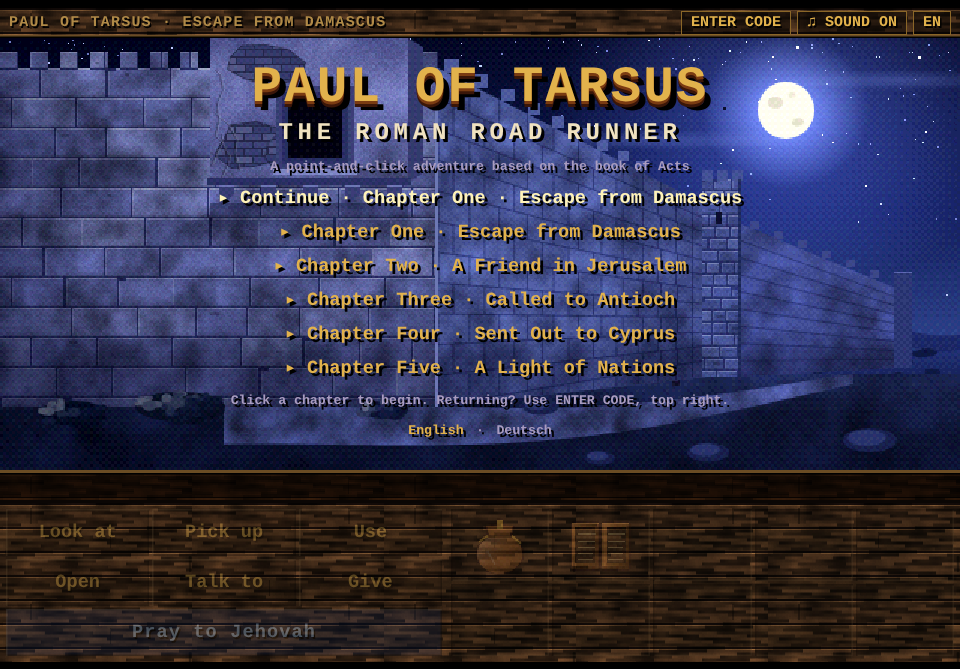
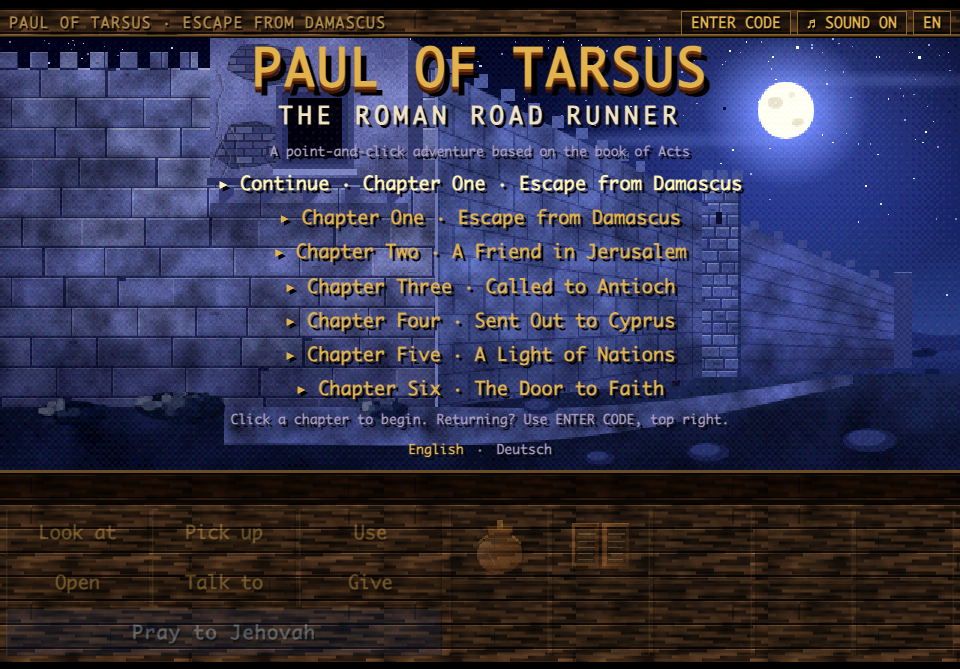
Docs: Chapter Six in the README, with its screenshots
The chapter's story, walkthrough and content notes, the closing map and the
score, and what a hub chapter needs for a place that stands for several
rooms. New screenshots for Iconium, Lystra, the gate, the dusk scene, the
house of Lois, Derbe and both maps; the title and Continue screens now list
six chapters.

diff --git a/README.md b/README.md
@@ -2,7 +2,7 @@
 
 A browser point-and-click adventure in the style of early-1990s verb-and-inventory adventure games. You play Saul of Tarsus, later known as the apostle Paul, a tentmaker who gets out of tight spots with his trade, his brothers and prayer rather than with force.
 
-There are five chapters so far, in English and German. The game is a small engine in `index.html` plus one level file per chapter in `levels/`, loaded only when that chapter is played. There are no image or audio files: every backdrop, character and icon is painted in code on a canvas, and all music, ambience and sound effects are synthesized with the Web Audio API.
+There are six chapters so far, in English and German. The game is a small engine in `index.html` plus one level file per chapter in `levels/`, loaded only when that chapter is played. There are no image or audio files: every backdrop, character and icon is painted in code on a canvas, and all music, ambience and sound effects are synthesized with the Web Audio API.
 
 ![Title screen](docs/screenshots/title.png)
 
@@ -173,6 +173,44 @@ In Antioch nothing is forced. A visitor takes a seat and waits to be asked, and 
 Optional: give the bread to John Mark before leaving Perga.
 </details>
 
+## Chapter Six: The Door to Faith
+
+About 47 to 48 C.E. In Iconium the two men speak in the synagogue "in such a manner that a great multitude of both Jews and Greeks became believers", and they spend considerable time there, "speaking with boldness by the authority of Jehovah". But the city is divided, and when an attempt is made to stone them, they are informed of it and flee to the cities of Lycaonia. In Lystra Paul heals a man who has been lame from birth, and the crowds cry out in the Lycaonian language: "The gods have become like humans and have come down to us!" They call Barnabas Zeus and Paul Hermes, and the priest of Zeus brings bulls and garlands to the gates. The two rip their garments and leap out into the crowd: "We too are humans having the same infirmities as you have." They barely restrain the crowds from sacrificing to them. Then Jews arrive from Antioch and Iconium and persuade the crowds; Paul is stoned and dragged outside the city, and left for dead. "However, when the disciples surrounded him, he got up and entered the city." The next day he leaves with Barnabas for Derbe. From there they return to Lystra, Iconium and Antioch, strengthening the disciples: "We must enter into the Kingdom of God through many tribulations." They appoint elders in each congregation, go down by Perga to Attalia, and sail home to Antioch, where they relate that God "had opened to the nations the door to faith" (Acts 14:1-28).
+
+| | |
+|---|---|
+| ![The saddlers' street in Iconium](docs/screenshots/iconium.png) | ![The well of Lystra](docs/screenshots/lystra.png) |
+| Iconium: a promise is kept before the road is taken | Lystra: a town with no synagogue, and a man who has never walked |
+| ![Bulls and garlands at the gate of Lystra](docs/screenshots/garlands.png) | ![Outside Lystra at dusk](docs/screenshots/dusk.png) |
+| The gate: bulls and garlands, for two men who will not have them | Outside the city: the disciples surround him, and he gets up |
+
+Five more locations and nine new characters. In Iconium the two men are informed of the stones in the first minute, and they leave the same day. But Paul has taken half the price of a wagon cover from a carrier who now sides with the rulers and calls him a swindler, and the cover wants its corners. A saddler who believes gives the leather; Paul finishes the cover and puts it into the hands of the man who speaks against him. The carrier's wife is a believer, and it is Barnabas she asks why bold men go: words were answered, but of stones the Lord said, "When they persecute you in one city, flee to another" (Matthew 10:23). Whether the silver stays behind for the brothers of Iconium is up to the player.
+
+Lystra has no synagogue, so Paul speaks at the well. The healing is told as Acts tells it. It solves no puzzle; it makes one, because the crowds cry out in Lycaonian and neither man understands a word. A boy of the town has both tongues: Timothy, whose mother Eunice and grandmother Lois taught him the holy writings from infancy. Once the two men know what is coming to the gate, the player chooses how Paul begins, to whom he turns his hearers, and what witness he names. The Law of Moses means nothing to people who never heard it read, and neither does the name of a psalm; what the psalm says does, and so do the rains and the fruitful seasons of their own valley. It is the lesson of Chapter Five, where a drover who had never heard the Prophets was told first about the God who made the mountains.
+
+What follows is told in the words of Acts 14:19 on a dark screen, and nothing of it is shown. The next scene is dusk outside the city, and the first thing the player decides there is which way Paul goes: by the road to Derbe, or back in through the gate. That night, by the lamp of Lois and Eunice, the tentmaker mends the garments the two men ripped. In Derbe nobody lifts a hand against them, and a disciple offers a place on his wagon: a well-traveled Roman road ran on from Derbe to Tarsus, and from there it was a short journey home. The travel map offers Tarsus. It also offers the road back. In Lystra again, a believing woman with an unbelieving husband asks whether it will always be like this, and Paul does not tell her that it gets easier.
+
+| | |
+|---|---|
+| ![Mending by lamplight in the house of Lois](docs/screenshots/lamplight.png) | ![Derbe, and the road east](docs/screenshots/derbe.png) |
+| The house of Lois and Eunice: stoned by day, and sewing by lamplight the same night | Derbe: a loaded wagon, and the short road home |
+| ![At Derbe the map offers Tarsus](docs/screenshots/shortway.png) | ![The way home](docs/screenshots/homeward.png) |
+| At Derbe the map offers Tarsus, and the road back | The way home: by Perga to Attalia, and by sea to Antioch |
+
+<details>
+<summary>Walkthrough (spoilers)</summary>
+
+1. In Iconium, talk to Nathan and ask for leather for four corners. Use the leather corners (or the awl) on the unfinished cover, and give the wagon cover to Xanthos.
+2. Switch to Barnabas and talk to Tatia: "Words we answered. From stones, our Lord said: flee." Leave by the south gate, and click Lystra on the map.
+3. In Lystra, talk to Timothy, then use the well. Talk to Timothy again to learn what the crowd is shouting.
+4. Go to the city gate. Choose "We too are humans, with the same infirmities as you", "To the living God, who made heaven, earth and sea" and "Rain from heaven, and fruitful seasons".
+5. Outside the city, go in at the city gate. In the house, use the thread (or the awl) on Barnabas. Leave by the door to the lane, and click Derbe on the map.
+6. At Derbe, take the road and click Lystra on the map, not Tarsus.
+7. Back in the house of Lois, talk to Eunice: "I will not tell you that it gets easier." Then leave by the door to the lane.
+
+Optional: give the silver coins to Nathan before leaving Iconium, and give the wax tablets to Timothy during the night in Lystra.
+</details>
+
 ## Look and sound
 
 The backdrops are painted in the manner of early-1990s VGA adventure games: perspective floors, textured plaster and stone, warm light against cool shadow, a foreground layer that slides past the scene as it scrolls, and a final ordered dither. Rooms are painted at twice the classic 320-pixel resolution. Night scenes and interiors are painted in daylight colors and then multiplied by a light map, so a lamp, a brazier or the moon through a window really lights the room; the same light falls on the characters as they walk through it.
@@ -187,6 +225,8 @@ Chapter Four draws the first missionary journey on a map of its own: Antioch to 
 
 Antioch in Pisidia and Iconium lie north of that map's upper edge, so Chapter Five looks at the same map through a second window, further north: Asia Minor as far as Galatia, with the Aegean islands on the left and Jerusalem and Egypt out of sight below. The chapter opens on it, with the crossing from Paphos to Perga, and closes on it, with the road from Perga over the Taurus to Antioch and on to Iconium.
 
+Chapter Six looks through the same window, and travels on it: from Iconium to Lystra, on to Derbe, and back. The way home is the road they came by, so the closing map does not draw it a second time: a light walks back from city to city, to Lystra, Iconium, Antioch and Perga. Then two new legs draw themselves, from Perga down to Attalia and by sea, between Cyprus and the coast of Cilicia, to Seleucia and Antioch. The crossing from Paphos to Perga is left off this map, because the voyage home would have to cross it.
+
 ![The travel map at the end of Chapter Three](docs/screenshots/map.png)
 
 Each chapter has its own score, and each room its own sounds:
@@ -198,6 +238,7 @@ Each chapter has its own score, and each room its own sounds:
 | Called to Antioch | A quick lyre figure, walking bass and reed pipe in G Mixolydian, with claps in the busy street | A tentmakers' row, vine leaves in the courtyard, the fountain and the crowd |
 | Sent Out to Cyprus | A harp in E Aeolian that rocks in three, three and two like a hull on a swell, with a ney at sea and a reed pipe in the harbors; before the proconsul only a drone, a slow drum and a few notes of the lyre | Waves, gulls and creaking timbers, a coppersmith's hammer in the market of Salamis, lamps in the synagogue, a brazier in the proconsul's hall |
 | A Light of Nations | A walking tune in D Phrygian, the mode named after the country Antioch borders on: a lyre in even fours, a frame drum at the pace of a pack train, and a reed pipe; a ney in the synagogue; at the ford and before the opposers only a drone, a slow drum and a few notes of the oud | Crickets and hooves on the hot plain, the rush of the river in the gorge, the wool market of Antioch, the wind across the high plain |
+| The Door to Faith | A tune for a high, well-watered plain in F Lydian: lyre, bass, frame drum and reed pipe on the roads; harp and ney indoors; a drone, a slow drum and a few notes of the oud when stones are spoken of; and when a whole town runs to the gate with garlands, a doubled drum, hand claps and a pipe that goes round and round on four notes | The fountain and the saddlers' hammers of Iconium, the well and the crowd of Lystra, crickets and an owl at dusk outside the city, a thorn fire in the house of Lois, wind over the stubble at Derbe |
 
 ## How to play
 
@@ -256,11 +297,13 @@ The game also keeps that same point in your browser, every time it changes. Come
 
 The game follows the scriptural understanding of Jehovah's Witnesses and the wording of the New World Translation of the Holy Scriptures (Study Edition); the German version quotes the German edition, the *Neue-Welt-Übersetzung der Heiligen Schrift (Studienausgabe)*. Historical details are checked against jw.org and wol.jw.org. Paul is shown as a courageous, observant minister who relies on practical wisdom, cooperation with fellow believers and trust in Jehovah. There are no halos, crosses or mystical effects, and no puzzle is solved by a miracle or by violence.
 
-The events themselves are from the Scriptures. All dialogue is imaginative dramatization, including the words given to Barnabas, Cephas, James, Agabus, Lucius, John Mark, Sergius Paulus and Bar-Jesus, and so are the supporting characters: Eliab, Naomi, Jesse, the merchant Zakkai and the guard in Chapter One; Mattan, the captain, the fisherman, the doorkeeper and the two Greek-speaking Jews Dositheus and Ariston in Chapter Two; Kleon, Xanthe and Theron in Chapter Three; the shipmaster Kallias, the old disciple Jair, the presiding officer Zadok and the merchant Philon in Chapter Four; the drover Papias, the wool merchant Eumenes, Joel, the presiding officer Hanan, Ammia and her husband Straton in Chapter Five. The Scriptures say nothing of how the relief was packed or counted: those details are invented as well.
+The events themselves are from the Scriptures. All dialogue is imaginative dramatization, including the words given to Barnabas, Cephas, James, Agabus, Lucius, John Mark, Sergius Paulus, Bar-Jesus, Timothy, Eunice, Lois, the man who was lame and the priest of Zeus, and so are the supporting characters: Eliab, Naomi, Jesse, the merchant Zakkai and the guard in Chapter One; Mattan, the captain, the fisherman, the doorkeeper and the two Greek-speaking Jews Dositheus and Ariston in Chapter Two; Kleon, Xanthe and Theron in Chapter Three; the shipmaster Kallias, the old disciple Jair, the presiding officer Zadok and the merchant Philon in Chapter Four; the drover Papias, the wool merchant Eumenes, Joel, the presiding officer Hanan, Ammia and her husband Straton in Chapter Five; the saddler Nathan, the carrier Xanthos and his wife Tatia, and the carter Zenon in Chapter Six. The Scriptures say nothing of how the relief was packed or counted: those details are invented as well.
 
 Chapter Four fills several silences of the account in the same way. Acts does not say where on Cyprus Barnabas was born, what was said in the synagogues of Salamis or how the people there responded, or what Elymas said to turn the proconsul away. The chapter places Barnabas's boyhood in Salamis, keeps the response there small, and gives Elymas three objections of its own. The shelter on the ship's deck rests on what is known of sea travel then: passengers on a merchant ship slept on deck and brought their own food and bedding. The ship has no figurehead, because those commonly showed a god.
 
 Chapter Five does the same. Acts does not say why John Mark left, how the two men travelled from Perga to Antioch, what was said in the week between the two Sabbaths, or who carried out the expulsion. The game gives John Mark no reason; the pack train, the ford and its rope are invented, and rest on what is known of that road: it was notorious for bandits, and its rivers were dangerous. That those who feared God stood by the door of the synagogue, that Paul worked at his trade in Antioch, and the three conversations of the week are invented too. Paul is unwell after the climb: *Bearing Thorough Witness* (chapter 11) says it is likely that he had health problems at this point, and cites Galatians 4:13; the game does not say what the illness was. The opposers' words are kept mild, and that they spoke "blasphemously" is told only in the words of Acts 13:45. In his talk Paul quotes the Scriptures as Acts 13 words them, while the tablets hold the same passages as they stand in the Psalms and the Prophets.
+
+Chapter Six does the same. Acts does not say who informed the two men of the attempt to stone them, what Paul worked at in Iconium, where in Lystra he spoke, or who told them what the crowds were crying out in Lycaonian. The wagon cover, the saddler and the carrier's divided household are invented; so is the well, though *Bearing Thorough Witness* (chapter 12) notes that Lystra possibly had no synagogue, so that they preached in a public area. The old story of Zeus and Hermes that the household of Lois tells is the legend that the same chapter cites. Acts does not name the disciples who surrounded Paul. The game makes them Lois, Eunice and Timothy: the Study Edition's note on 2 Timothy 1:5 says that Eunice and Lois likely became Christians during this first stay in Lystra, and Timothy knew what happened to Paul there (2 Timothy 3:10, 11); but the account does not say so, and the chapter's end screen says that it does not. The healing of the lame man is told as Acts tells it and solves no puzzle. The stoning is not shown. The bulls and garlands of Acts 14:13 are shown, because the scene is about refusing them; the temple of Zeus is not, and nothing in the chapter shows a statue, an altar or an image of a god. That a road ran on from Derbe to Tarsus, and that the two men could have gone home that way, is from *The Watchtower* of September 1, 1992; the carter who offers it is invented. Of the return visits only the one to Lystra is shown, and the appointing of elders is told in the words of Acts 14:23.
 
 This is an independent, non-commercial fan project. It is not produced, endorsed or reviewed by Jehovah's Witnesses or the Watch Tower Bible and Tract Society.
 
@@ -273,17 +316,18 @@ levels/chapter2.js    A Friend in Jerusalem
 levels/chapter3.js    Called to Antioch
 levels/chapter4.js    Sent Out to Cyprus
 levels/chapter5.js    A Light of Nations
+levels/chapter6.js    The Door to Faith
 shared/tablets.js     Paul's wax tablets, used by every chapter
 shared/map.js         the travel map: the journeys between chapters, and travel for a hub chapter
 lang/de/              the German text: main.js for the engine and shared files, chapterN.js for each chapter
 tools/                headless playtest, and the translation check (strings.mjs)
 ```
 
-A level file holds everything that belongs to one chapter and nothing else does: its music and ambience, its artwork, its cast and items, its rooms with their hotspots and dialog, its cutscenes and its prayer hints. `index.html` keeps only a manifest with one line per chapter (`CHAP`: name, file, code salt), and fetches a level with a script tag the first time it is needed, so the game still runs when opened straight from disk. To add a chapter, write `levels/chapter6.js` and add its line to the manifest.
+A level file holds everything that belongs to one chapter and nothing else does: its music and ambience, its artwork, its cast and items, its rooms with their hotspots and dialog, its cutscenes and its prayer hints. `index.html` keeps only a manifest with one line per chapter (`CHAP`: name, file, code salt), and fetches a level with a script tag the first time it is needed, so the game still runs when opened straight from disk. To add a chapter, write `levels/chapter7.js` and add its line to the manifest.
 
 Inside a level file:
 
-- **Music and ambience** are plain data. A score names a tempo, a tonic, a mode and a list of tracks (drone, drum pattern, step-sequenced instrument, melody); each track lists the moods it plays in, and each room names its mood (`calm`, `tense`, `hope`) and the sounds around it, for example `amb:{waves:.8,gulls:.6}`. The instruments, drums and ambience voices themselves live in the engine.
+- **Music and ambience** are plain data. A score names a tempo, a tonic, a mode and a list of tracks (drone, drum pattern, step-sequenced instrument, melody); each track lists the moods it plays in, and each room names its mood (`calm`, `tense`, `hope`, or one of the chapter's own, such as `feast` in Chapter Six) and the sounds around it, for example `amb:{waves:.8,gulls:.6}`. The instruments, drums and ambience voices themselves live in the engine.
 - **Sound starts** with the first press anywhere: browsers only allow it inside a click, tap or key press. Any later press wakes it again if the browser held it back or iOS interrupted it (after switching apps or locking the screen). The audio session is `ambient`, so iPhones and iPads keep the game quiet in Silent Mode; on those devices a note (`hush()`) says so, because Safari does not tell a page whether Silent Mode is on.
 - **Artwork** is a painter per room: `paint` draws the backdrop once, `fore` an optional foreground layer, `draw` whatever changes with the story (items that can be taken, a sail going up), and `light` says how the room lights the people in it. The painters use the engine's toolkit: `plaster`, `ashlar`, `pave`, `wood`, `vessel`, `foliage`, `lightmap`, `shade` and so on.
 - **Rooms and dialog** are tables of hotspots with their lines, and short async scripts for the puzzles and cutscenes. A hotspot's default verb (what a plain click does) is worked out by the engine: a door is opened, another exit is walked to, a person is talked to, something picked up with `take(...)` is picked up, and anything else is looked at. A hotspot can name its own with `def:'use'`, or with a getter when it changes with the story.
@@ -306,11 +350,11 @@ TEXTS('de',1,{
 
 A line with no entry is shown in English. `node tools/strings.mjs --check` (which the playtest runs first) finds the English text in the code and reports every line missing from a language, every entry whose English line has changed or gone, a `{slot}` added in a translation, English book names in a reference, and pronunciation marks copied from the Bible text. Then the playtest plays the whole game in each language and fails on any line that was shown untranslated, and on any text that overflows its box. To add a language: add its line to `LANGS` in `index.html` (`fr:{native:'Français',dir:'lang/fr/'}`), copy `lang/de` to `lang/fr` and replace the translations, quoting every verse from that language's Study Edition. Nothing else in the engine changes.
 
-**The travel map.** `shared/map.js` holds the geography: `PLACES` (each city's longitude and latitude, and the side its name goes on), the coasts, islands, lakes and ranges, and `VIA`, waypoints for legs that should not run straight. A chapter declares the way out of it as `route:[['jerusalem','caesarea','new'],['caesarea','tarsus','new sea']]`, with the earlier legs first and `new` on the ones to draw now, and calls `await journey()` in its ending. Check a new leg against the others: the playtest fails if two routes cross. A name sits on the side its place gives it (`lab`, and `dy` to raise or lower it). Where that side would lie across one of a chapter's routes, the chapter says where the name goes on its own map: `labels:{salamis:{lab:'r',dy:4.2}}`.
+**The travel map.** `shared/map.js` holds the geography: `PLACES` (each city's longitude and latitude, and the side its name goes on), the coasts, islands, lakes and ranges, and `VIA`, waypoints for legs that should not run straight. A chapter declares the way out of it as `route:[['jerusalem','caesarea','new'],['caesarea','tarsus','new sea']]`, with the earlier legs first and `new` on the ones to draw now, and calls `await journey()` in its ending. Check a new leg against the others: the playtest fails if two routes cross. A name sits on the side its place gives it (`lab`, and `dy` to raise or lower it). Where that side would lie across one of a chapter's routes, the chapter says where the name goes on its own map: `labels:{salamis:{lab:'r',dy:4.2}}`. A road travelled a second time is not drawn a second time: two dotted lines along one curve cross each other. Chapter Six ends by showing its roads at once (`journey(route,{instant:1})`), moving the light from city to city (`state.pulse`), and drawing only the new legs with `go(from,to)`.
 
-The map is larger than the screen. Everything on it keeps its coordinates, and a chapter whose road leaves the usual window names another one: `view:'north'` (Chapter Five). A view is declared in `VIEWS` as the distance its window lies to the right of and below the usual one, in whole pixels; `SEA` says where the name of the sea stands in each. The coast, the islands and the ranges are painted once per view. A new view may need coast that the others never showed: the Aegean shore north of Miletus was added for this one.
+The map is larger than the screen. Everything on it keeps its coordinates, and a chapter whose road leaves the usual window names another one: `view:'north'` (Chapters Five and Six). A view is declared in `VIEWS` as the distance its window lies to the right of and below the usual one, in whole pixels; `SEA` says where the name of the sea stands in each. The coast, the islands and the ranges are painted once per view. A new view may need coast that the others never showed: the Aegean shore north of Miletus was added for this one.
 
-**A hub chapter** (Chapter Four is the first, Chapter Five the second) is a chapter whose rooms are places on the map that the player travels between by clicking. It declares them in its definition, by their ids in `shared/map.js`, each with the room it leads to and where Paul stands on arrival:
+**A hub chapter** (Chapters Four, Five and Six) is a chapter whose rooms are places on the map that the player travels between by clicking. It declares them in its definition, by their ids in `shared/map.js`, each with the room it leads to and where Paul stands on arrival:
 
 ```js
 rooms:['seleucia','salamis','synagogue','paphos'],
@@ -320,7 +364,7 @@ places:{
   paphos:{room:'paphos',x:150,y:124,dir:1,if:()=>G.room==='salamis'&&F.spoke,no:'Paphos lies at the far end of the island.'}},
 ```
 
-and gives the exits that lead out of town `exit:travel`, or an exit of its own that checks what the story still needs and then calls `travel()`. `travel()` opens the map with those places as dots; hovering lights a name, a click draws the way there and enters that room, and Esc or a right-click stays. A place can say when the way to it is open (`if`) and what the character says when it is not (`no`: a line, a list of lines or a script), and `hide` keeps it off the map. The chapter's `way()` lists the legs already travelled, which the map shows, and its `arrive(to, from)` runs after the journey and before the room appears: it brings the rest of the party along, and may tell of the journey, as the crossing to Salamis is told. It may also enter another room than the place's own: in Chapter Five the road to Antioch comes down to a ford first. A place that is not in `PLACES` yet is added there with its coordinates. A hub chapter will have more than three rooms, so it gets wide codes automatically; if it may grow, it reserves room with `codeBits` from the start.
+and gives the exits that lead out of town `exit:travel`, or an exit of its own that checks what the story still needs and then calls `travel()`. `travel()` opens the map with those places as dots; hovering lights a name, a click draws the way there and enters that room, and Esc or a right-click stays. A place can say when the way to it is open (`if`) and what the character says when it is not (`no`: a line, a list of lines or a script), and `hide` keeps it off the map. The chapter's `way()` lists the legs already travelled, which the map shows, and its `arrive(to, from)` runs after the journey and before the room appears: it brings the rest of the party along, and may tell of the journey, as the crossing to Salamis is told. It may also enter another room than the place's own: in Chapter Five the road to Antioch comes down to a ford first. A place can stand for more than one room: in Chapter Six, Lystra is the open place by the well, the ground outside the gate, or the house of Lois, so its `room` is a getter that follows the story. A place that is not in `PLACES` yet is added there with its coordinates. A hub chapter will have more than three rooms, so it gets wide codes automatically; if it may grow, it reserves room with `codeBits` from the start.
 
 **Autosave.** The save is the safe-point code, not a second format: `codeBtn()` writes the string it shows to `localStorage` under `paul.save`, whenever the player is in a room outside a cutscene (so it always names a point they could have written down). The title screen reads it back with `saved()` and, if it still decodes, leads with **Continue**, which `resume()` restores the way typing the code does. `endScreen()` replaces the save with the next chapter's first code (or clears it, after the last chapter). A browser that refuses storage is fine: the game plays on and the code screen does not claim a save. Because the save is a code, every promise below holds for it too, and nothing else may go into it without a format the decoder can tell apart.
 
@@ -328,13 +372,13 @@ and gives the exits that lead out of town `exit:travel`, or an exit of its own t
 
 Edit a file and reload.
 
-`tools/playtest.mjs` plays all five chapters through the real interface in headless Chrome and checks each puzzle step, the save codes and the endings. It needs Node 22 or newer and Google Chrome. Each run asks Chrome for a free debugging port, so several runs can go side by side.
+`tools/playtest.mjs` plays all six chapters through the real interface in headless Chrome and checks each puzzle step, the save codes and the endings. It needs Node 22 or newer and Google Chrome. Each run asks Chrome for a free debugging port, so several runs can go side by side.
 
 ```bash
 node tools/playtest.mjs
 ```
 
-It plays the game once in English and once more in every other language under `lang/`, each followed by `resume`, which reloads the game to check that the autosave brings the player back (`continue` stops at the title screen that offers it). Pass stop names to save screenshots to `tools/out/` instead, for example `node tools/playtest.mjs title workshop harbor`; put a language in front of a stop to take it in that language: `node tools/playtest.mjs de:title de:tablets`. The stop names are defined in `tools/playtest-harness.html`; Chapter Three stops such as `tarsus`, `court` and `antioch` start that chapter directly, and so do Chapter Four stops such as `seleucia`, `salamis` and `paphos` and Chapter Five stops such as `perga`, `ford` and `pisidia`.
+It plays the game once in English and once more in every other language under `lang/`, each followed by `resume`, which reloads the game to check that the autosave brings the player back (`continue` stops at the title screen that offers it). Pass stop names to save screenshots to `tools/out/` instead, for example `node tools/playtest.mjs title workshop harbor`; put a language in front of a stop to take it in that language: `node tools/playtest.mjs de:title de:tablets`. The stop names are defined in `tools/playtest-harness.html`; Chapter Three stops such as `tarsus`, `court` and `antioch` start that chapter directly, and so do Chapter Four stops such as `seleucia`, `salamis` and `paphos` Chapter Five stops such as `perga`, `ford` and `pisidia`, and Chapter Six stops such as `iconium`, `lystra` and `derbe`.
 
 ## Contributing
 
